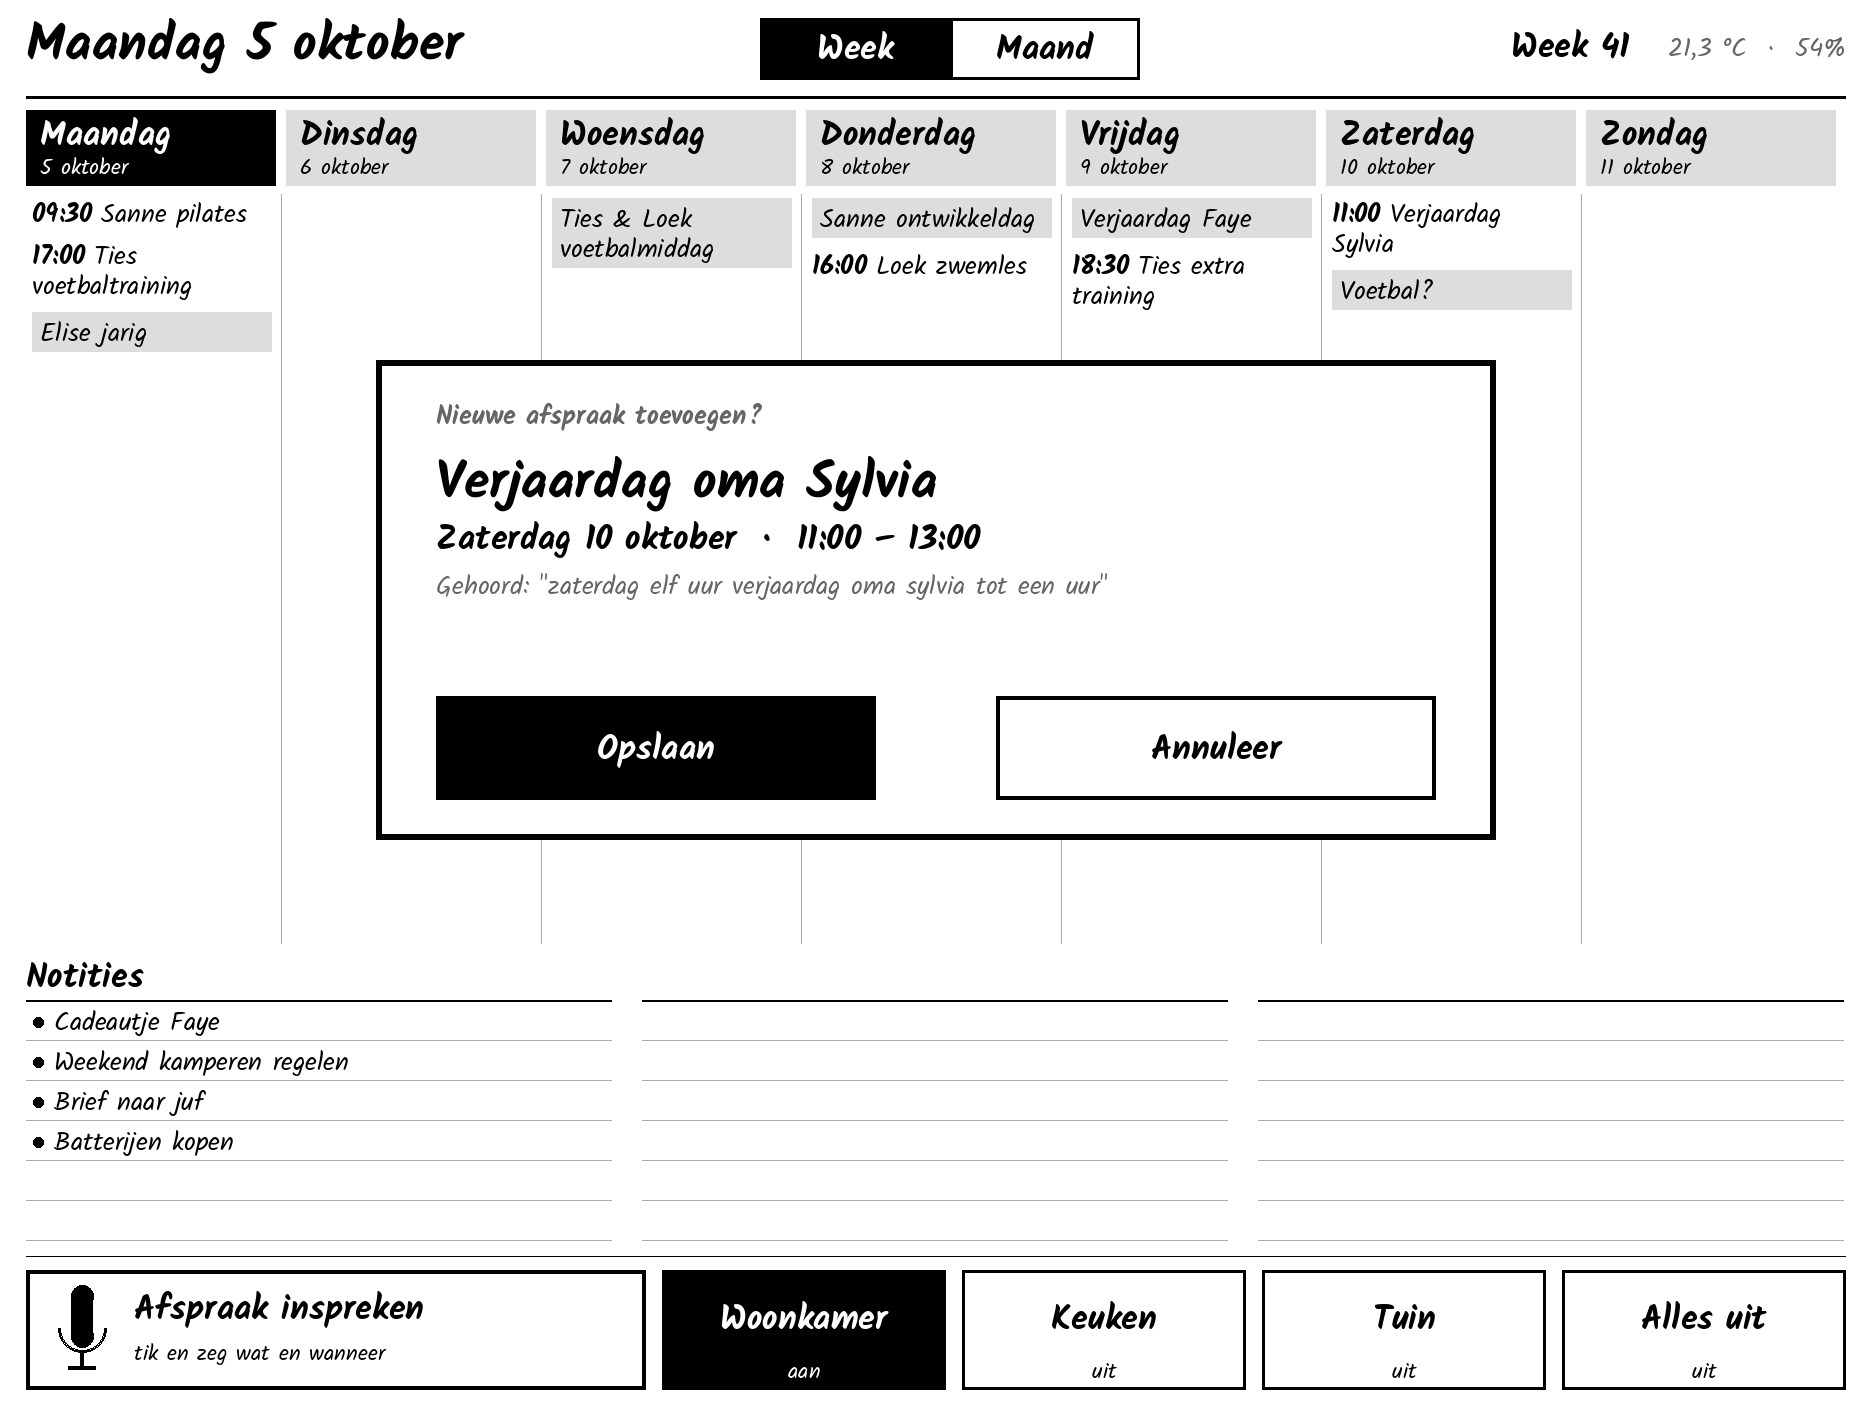
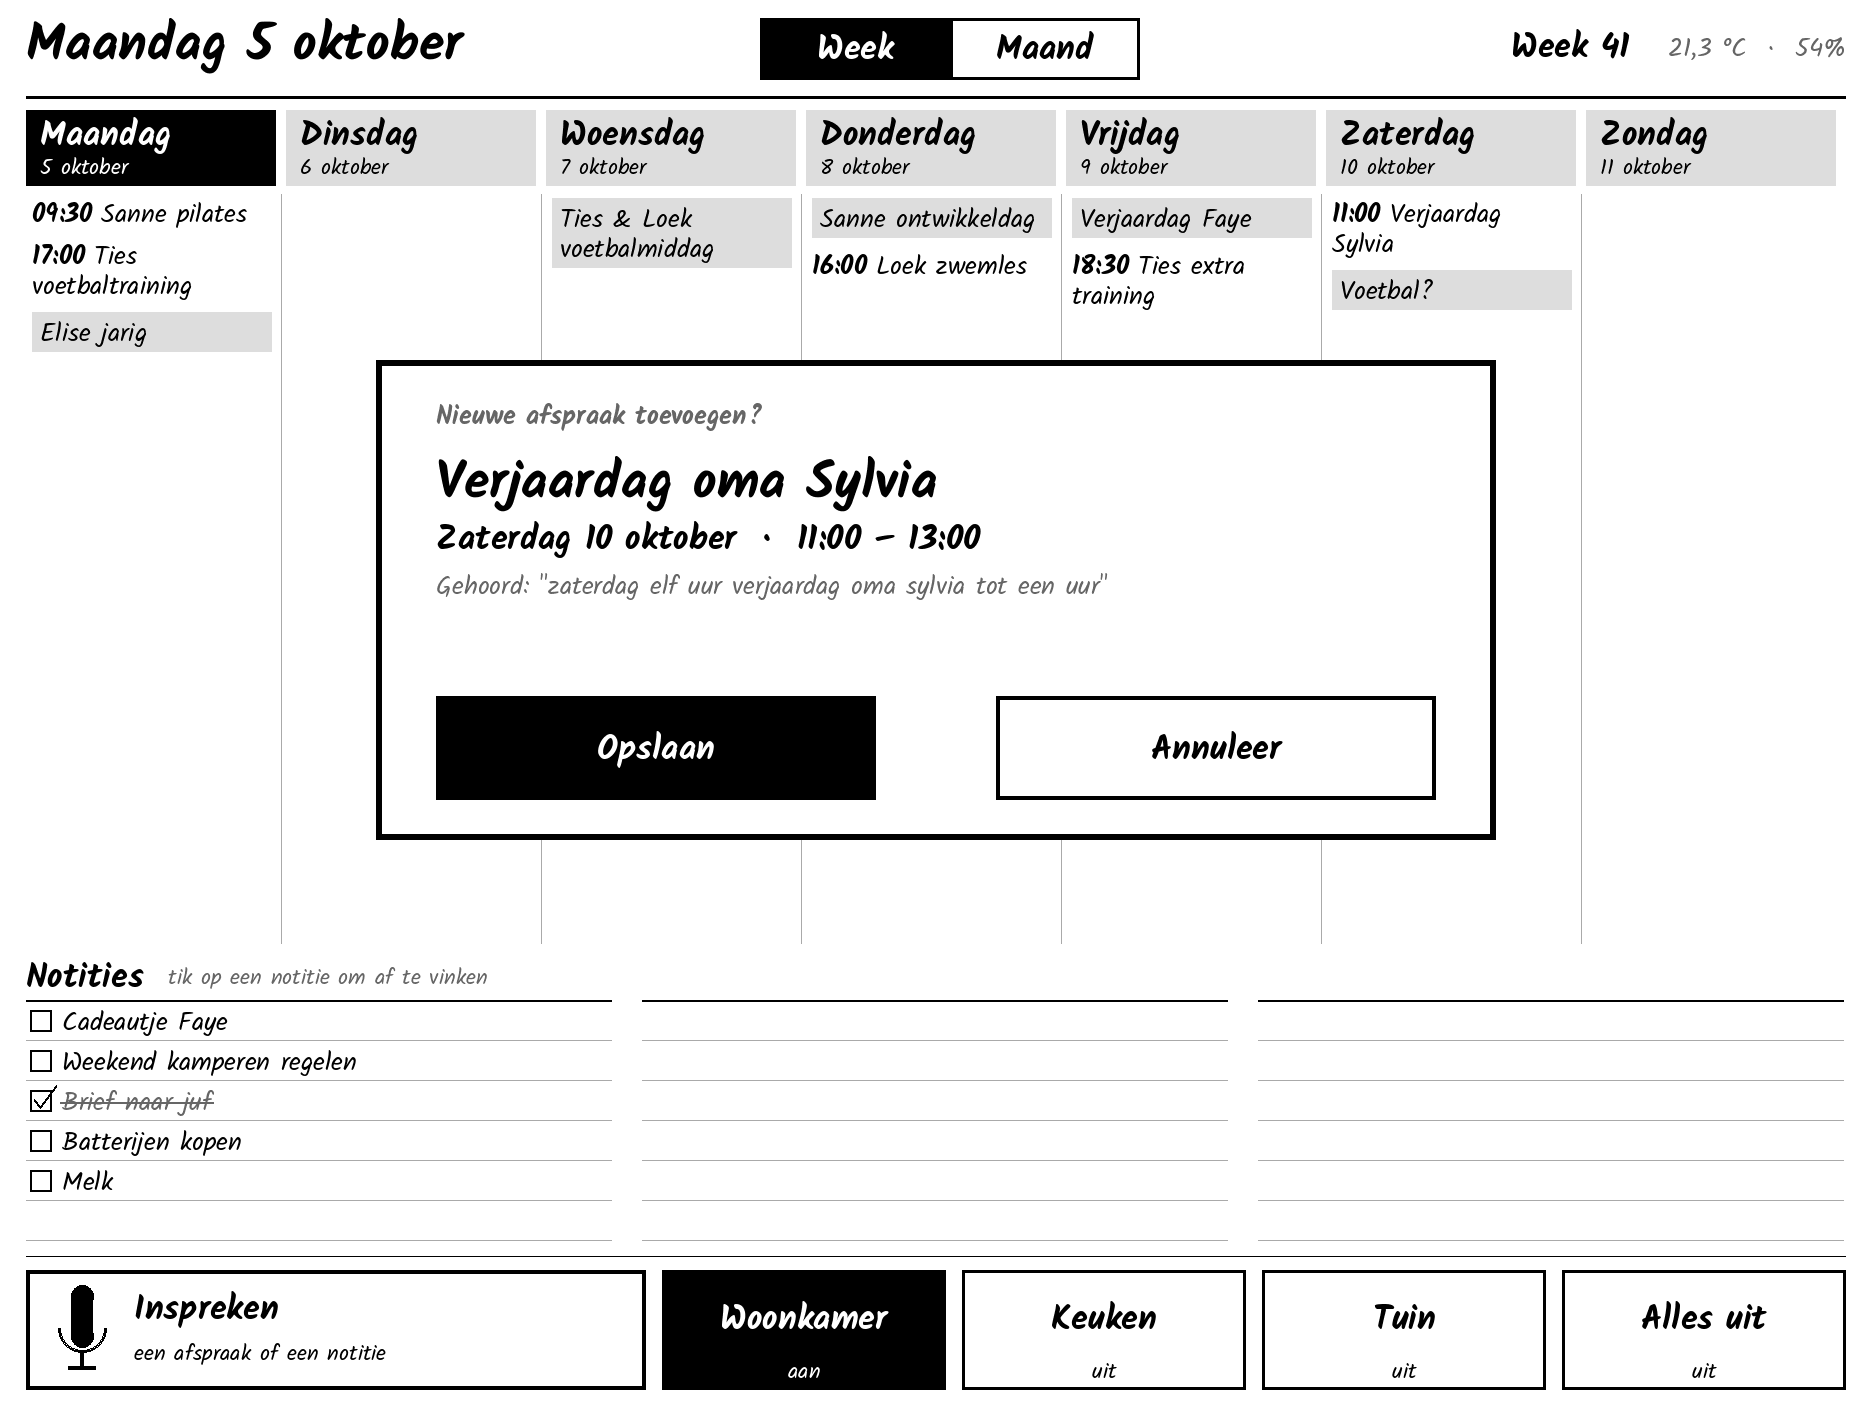
Speak notes, check off notes by tapping them
- the voice button now handles appointments and notes: the AI task picks
  afspraak/notitie/geen, the screen shows a matching confirmation and
  'Opslaan' adds a note to the first to-do list
- notes carry their list and uid; tapping one strikes it through right
  away (fast partial refresh) and marks it completed in HA

Claude-Session: https://claude.ai/code/session_016Q8iTAxGynamuoJ2KD6AXo

Changed region(s): [[0.0, 0.6738, 0.2479, 0.8575], [0.062, 0.9188, 0.2169, 0.9801]]

diff --git a/esphome/ink_kalender.h b/esphome/ink_kalender.h
@@ -78,6 +78,7 @@ constexpr int VENSTER_KNOP_Y = VENSTER_Y + VENSTER_H - 144;
 constexpr uint8_t VOL = 1;      // alles, GC16 (mooi grijs, knippert)
 constexpr uint8_t BALK = 2;     // alleen knoppenbalk, DU (snel)
 constexpr uint8_t VENSTER = 4;  // alleen pop-upvenster, DU (snel)
+constexpr uint8_t NOTITIES = 8; // alleen notitievakken, DU (snel)
 
 const Color ZWART(0, 0, 0);
 const Color WIT(255, 255, 255);
@@ -207,6 +208,34 @@ inline std::vector<std::string> lees_regels(const std::string &tekst) {
   return uit;
 }
 
+struct Notitie {
+  std::string lijst;  // todo-entiteit, bijv. "todo.notities"
+  std::string uid;    // id van het item in die lijst
+  std::string tekst;
+  bool afgevinkt{false};
+};
+
+// Regels "todo.lijst|uid|tekst". Een regel zonder '|' is alleen tekst
+// (dan kan hij niet afgevinkt worden).
+inline std::vector<Notitie> lees_notities(const std::string &tekst) {
+  std::vector<Notitie> uit;
+  for (const auto &regel : lees_regels(tekst)) {
+    Notitie n;
+    const size_t a = regel.find('|');
+    const size_t b = a == std::string::npos ? a : regel.find('|', a + 1);
+    if (b == std::string::npos) {
+      n.tekst = regel;
+    } else {
+      n.lijst = regel.substr(0, a);
+      n.uid = regel.substr(a + 1, b - a - 1);
+      n.tekst = regel.substr(b + 1);
+    }
+    if (!n.tekst.empty())
+      uit.push_back(n);
+  }
+  return uit;
+}
+
 // ------------------------------------------------------------------ staat ---
 
 enum Status : uint8_t { RUST, LUISTEREN, VERWERKEN, VOORSTEL, MELDING };
@@ -220,12 +249,14 @@ enum Zone : int {
   OK = 12,
   TAB_WEEK = 20,
   TAB_MAAND = 21,
+  NOTITIE0 = 100,  // NOTITIE0 + i = notitie i
 };
 
 enum Scherm : uint8_t { SCHERM_WEEK, SCHERM_MAAND };
 
 struct Voorstel {
   std::string titel, datum, begin, eind, gehoord;
+  std::string soort;  // "afspraak" of "notitie"
 };
 
 struct HaKnop {
@@ -240,7 +271,7 @@ struct Staat {
   bool verbonden{true};
   std::string ruw_afspraken, ruw_notities;
   std::vector<Afspraak> afspraken;
-  std::vector<std::string> notities;
+  std::vector<Notitie> notities;
   Status status{RUST};
   Scherm scherm{SCHERM_WEEK};
   Voorstel voorstel;
@@ -560,36 +591,54 @@ inline void teken_maand(Display &it, const Staat &s, const Fonts &f) {
   }
 }
 
+constexpr int NOTITIE_REGEL = 40;
+constexpr int NOTITIE_KOLOMMEN = 3;
+constexpr int NOTITIE_TUSSEN = 30;
+constexpr int NOTITIE_TOP = NOTITIE_Y + 42;
+constexpr int NOTITIE_KOL_B = (BREED - (NOTITIE_KOLOMMEN - 1) * NOTITIE_TUSSEN) / NOTITIE_KOLOMMEN;
+constexpr int NOTITIE_PER_KOLOM = (NOTITIE_EIND - NOTITIE_TOP) / NOTITIE_REGEL;
+constexpr int NOTITIE_MAX = NOTITIE_PER_KOLOM * NOTITIE_KOLOMMEN;
+
+inline int notitie_x(int i) { return MARGE + (i / NOTITIE_PER_KOLOM) * (NOTITIE_KOL_B + NOTITIE_TUSSEN); }
+inline int notitie_y(int i) { return NOTITIE_TOP + (i % NOTITIE_PER_KOLOM) * NOTITIE_REGEL; }
+
 inline void teken_notities(Display &it, const Staat &s, const Fonts &f) {
   tekst(it, MARGE, NOTITIE_Y - 8, f.kop, ZWART, WIT, TextAlign::TOP_LEFT, "Notities");
-  constexpr int REGEL = 40;
-  constexpr int KOLOMMEN = 3;
-  constexpr int TUSSEN = 30;
-  const int top = NOTITIE_Y + 42;
-  const int kol_b = (BREED - (KOLOMMEN - 1) * TUSSEN) / KOLOMMEN;
-  const int per_kolom = (NOTITIE_EIND - top) / REGEL;
-  for (int k = 0; k < KOLOMMEN; k++) {
-    const int x = MARGE + k * (kol_b + TUSSEN);
-    it.filled_rectangle(x, top, kol_b, 2, ZWART);
-    for (int r = 1; r <= per_kolom; r++)
-      it.horizontal_line(x, top + r * REGEL, kol_b, GRIJS);
+  tekst(it, MARGE + breedte(it, f.kop, "Notities") + 24, NOTITIE_Y + 2, f.klein, GRIJS_DONKER, WIT,
+        TextAlign::TOP_LEFT, "tik op een notitie om af te vinken");
+  for (int k = 0; k < NOTITIE_KOLOMMEN; k++) {
+    const int x = MARGE + k * (NOTITIE_KOL_B + NOTITIE_TUSSEN);
+    it.filled_rectangle(x, NOTITIE_TOP, NOTITIE_KOL_B, 2, ZWART);
+    for (int r = 1; r <= NOTITIE_PER_KOLOM; r++)
+      it.horizontal_line(x, NOTITIE_TOP + r * NOTITIE_REGEL, NOTITIE_KOL_B, GRIJS);
   }
   if (s.notities.empty()) {
-    tekst(it, MARGE + 8, top + 2, f.normaal, GRIJS_DONKER, WIT, TextAlign::TOP_LEFT, "Geen notities");
+    tekst(it, MARGE + 8, NOTITIE_TOP + 2, f.normaal, GRIJS_DONKER, WIT, TextAlign::TOP_LEFT, "Geen notities");
     return;
   }
-  const int max = per_kolom * KOLOMMEN;
-  for (int i = 0; i < static_cast<int>(s.notities.size()) && i < max; i++) {
-    const int x = MARGE + (i / per_kolom) * (kol_b + TUSSEN);
-    const int y = top + (i % per_kolom) * REGEL;
-    std::string t = s.notities[i];
-    if (i == max - 1 && static_cast<int>(s.notities.size()) > max) {
+  const int aantal = static_cast<int>(s.notities.size());
+  for (int i = 0; i < aantal && i < NOTITIE_MAX; i++) {
+    const int x = notitie_x(i);
+    const int y = notitie_y(i);
+    if (i == NOTITIE_MAX - 1 && aantal > NOTITIE_MAX) {
       char buf[24];
-      std::snprintf(buf, sizeof(buf), "+%d meer", static_cast<int>(s.notities.size()) - i);
-      t = buf;
+      std::snprintf(buf, sizeof(buf), "+%d meer", aantal - i);
+      tekst(it, x + 36, y + 2, f.normaal, GRIJS_DONKER, WIT, TextAlign::TOP_LEFT, buf);
+      break;
     }
-    it.filled_circle(x + 12, y + 22, 5, ZWART);
-    tekst(it, x + 28, y + 2, f.normaal, ZWART, WIT, TextAlign::TOP_LEFT, afkappen(it, f.normaal, t, kol_b - 36));
+    const Notitie &n = s.notities[i];
+    // Vakje om af te vinken
+    kader(it, x + 4, y + 10, 22, 22, 2, n.uid.empty() ? GRIJS : ZWART);
+    if (n.afgevinkt) {
+      for (int d = -1; d <= 1; d++) {
+        it.line(x + 8, y + 20 + d, x + 14, y + 27 + d, ZWART);
+        it.line(x + 14, y + 27 + d, x + 30, y + 6 + d, ZWART);
+      }
+    }
+    const std::string t = afkappen(it, f.normaal, n.tekst, NOTITIE_KOL_B - 44);
+    tekst(it, x + 36, y + 2, f.normaal, n.afgevinkt ? GRIJS_DONKER : ZWART, WIT, TextAlign::TOP_LEFT, t);
+    if (n.afgevinkt)
+      it.filled_rectangle(x + 34, y + 22, breedte(it, f.normaal, t) + 4, 2, GRIJS_DONKER);
   }
 }
 
@@ -611,8 +660,8 @@ inline void teken_balk(Display &it, const Staat &s, const Fonts &f) {
   it.horizontal_line(MARGE, BALK_Y, BREED, ZWART);
 
   // Spreekknop
-  std::string label = "Afspraak inspreken";
-  std::string hint = "tik en zeg wat en wanneer";
+  std::string label = "Inspreken";
+  std::string hint = "een afspraak of een notitie";
   const bool actief = s.status == LUISTEREN || s.status == VERWERKEN;
   if (s.status == LUISTEREN) {
     label = "Ik luister…";
@@ -679,20 +728,26 @@ inline void teken_venster(Display &it, const Staat &s, const Fonts &f) {
   }
 
   const Voorstel &v = s.voorstel;
-  tekst(it, x, y, f.vet, GRIJS_DONKER, WIT, TextAlign::TOP_LEFT, "Nieuwe afspraak toevoegen?");
+  const bool notitie = v.soort == "notitie";
+  tekst(it, x, y, f.vet, GRIJS_DONKER, WIT, TextAlign::TOP_LEFT,
+        notitie ? "Notitie toevoegen?" : "Nieuwe afspraak toevoegen?");
   y += 46;
   for (const auto &r : omloop(it, f.groot, v.titel, w, w, 2)) {
     tekst(it, x, y, f.groot, ZWART, WIT, TextAlign::TOP_LEFT, r);
     y += 66;
   }
   y += 4;
-  Datum d;
-  std::string wanneer = lees_datum(v.datum, d) ? datum_lang(d) : v.datum;
-  if (v.begin.empty())
-    wanneer += "  ·  hele dag";
-  else
-    wanneer += "  ·  " + v.begin + (v.eind.empty() ? "" : " – " + v.eind);
-  tekst(it, x, y, f.kop, ZWART, WIT, TextAlign::TOP_LEFT, afkappen(it, f.kop, wanneer, w));
+  if (!notitie) {
+    Datum d;
+    std::string wanneer = lees_datum(v.datum, d) ? datum_lang(d) : v.datum;
+    if (v.begin.empty())
+      wanneer += "  ·  hele dag";
+    else
+      wanneer += "  ·  " + v.begin + (v.eind.empty() ? "" : " – " + v.eind);
+    tekst(it, x, y, f.kop, ZWART, WIT, TextAlign::TOP_LEFT, afkappen(it, f.kop, wanneer, w));
+  } else {
+    tekst(it, x, y, f.kop, ZWART, WIT, TextAlign::TOP_LEFT, "op de notitielijst");
+  }
   y += 54;
   if (!v.gehoord.empty())
     tekst(it, x, y, f.normaal, GRIJS_DONKER, WIT, TextAlign::TOP_LEFT,
@@ -724,6 +779,13 @@ inline void teken(Display &it, const Staat &s, const Fonts &f, uint8_t mask) {
   }
   if (mask & BALK)
     teken_balk(it, s, f);
+  if ((mask & NOTITIES) && s.scherm == SCHERM_WEEK) {
+    it.filled_rectangle(0, NOTITIE_Y - 12, B, NOTITIE_EIND - NOTITIE_Y + 14, WIT);
+    teken_notities(it, s, f);
+    // Een open venster mag er niet door overschreven worden.
+    if (venster_open(s))
+      teken_venster(it, s, f);
+  }
   if ((mask & VENSTER) && venster_open(s))
     teken_venster(it, s, f);
 }
@@ -743,9 +805,19 @@ inline Zone raak(const Staat &s, int x, int y) {
     if (binnen(x, y, annuleer_x(), VENSTER_KNOP_Y, VENSTER_KNOP_B, VENSTER_KNOP_H))
       return ANNULEER;
   }
-  for (int i = 0; i < 2; i++)
+  // Tabs en notities liggen onder een open venster; dan niet aanraakbaar.
+  for (int i = 0; i < 2 && !venster_open(s); i++)
     if (binnen(x, y, tab_x(i), 0, TAB_B, KOP_H))
       return static_cast<Zone>(TAB_WEEK + i);
+  if (s.scherm == SCHERM_WEEK && !venster_open(s)) {
+    const int aantal = static_cast<int>(s.notities.size());
+    for (int i = 0; i < aantal && i < NOTITIE_MAX; i++) {
+      if (i == NOTITIE_MAX - 1 && aantal > NOTITIE_MAX)
+        break;  // "+N meer"
+      if (binnen(x, y, notitie_x(i), notitie_y(i), NOTITIE_KOL_B, NOTITIE_REGEL))
+        return s.notities[i].uid.empty() ? GEEN : static_cast<Zone>(NOTITIE0 + i);
+    }
+  }
   // Iets ruimere vlakken in de balk; vingers zijn geen stylus.
   if (binnen(x, y, MARGE - 10, KNOP_Y - 14, SPREEK_B + 18, KNOP_H + 28))
     return SPREEK;

diff --git a/tools/preview/preview.cpp b/tools/preview/preview.cpp
@@ -1,5 +1,5 @@
 // Previews van het scherm met voorbeelddata.
-// Gebruik: preview <week|maand|luisteren|voorstel|melding>  > opdrachten.jsonl
+// Gebruik: preview <week|maand|luisteren|voorstel|notitie|melding>  > opdrachten.jsonl
 #include <cstring>
 
 #include "../../esphome/ink_kalender.h"
@@ -47,7 +47,13 @@ int main(int argc, char **argv) {
   s.temperatuur = 21.3f;
   s.vochtigheid = 54.0f;
   s.afspraken = ink::lees_afspraken(VOORBEELD);
-  s.notities = ink::lees_regels("Cadeautje Faye\nWeekend kamperen regelen\nBrief naar juf\nBatterijen kopen\n");
+  s.notities = ink::lees_notities(
+      "todo.notities|a1|Cadeautje Faye\n"
+      "todo.notities|a2|Weekend kamperen regelen\n"
+      "todo.notities|a3|Brief naar juf\n"
+      "todo.boodschappen|b1|Batterijen kopen\n"
+      "todo.boodschappen|b2|Melk\n");
+  s.notities[2].afgevinkt = true;
   s.knoppen[0] = {"Woonkamer", true};
   s.knoppen[1] = {"Keuken", false};
   s.knoppen[2] = {"Tuin", false};
@@ -60,7 +66,10 @@ int main(int argc, char **argv) {
   } else if (!std::strcmp(scenario, "voorstel")) {
     s.status = ink::VOORSTEL;
     s.voorstel = {"Verjaardag oma Sylvia", "2026-10-10", "11:00", "13:00",
-                  "zaterdag elf uur verjaardag oma sylvia tot een uur"};
+                  "zaterdag elf uur verjaardag oma sylvia tot een uur", "afspraak"};
+  } else if (!std::strcmp(scenario, "notitie")) {
+    s.status = ink::VOORSTEL;
+    s.voorstel = {"Cadeautje voor Faye kopen", "", "", "", "notitie cadeautje voor faye kopen", "notitie"};
   } else if (!std::strcmp(scenario, "melding")) {
     s.status = ink::MELDING;
     s.melding = "Ik hoorde \"doe de lampen uit\", maar dat is geen afspraak.";

diff --git a/tools/preview/render.py b/tools/preview/render.py
@@ -30,7 +30,7 @@ FONT_DEFS = [  # (naam, gewicht, grootte)
     ("kop", 700, 34),
     ("groot", 700, 52),
 ]
-SCENARIOS = ["week", "maand", "luisteren", "voorstel", "melding"]
+SCENARIOS = ["week", "maand", "luisteren", "voorstel", "notitie", "melding"]
 TEKENS = list(range(32, 0x250)) + [0x2013, 0x2018, 0x2019, 0x201C, 0x201D, 0x2026]
 
 
@@ -100,6 +100,8 @@ def teken(opdrachten: list, fonts: dict) -> Image.Image:
                 d.rectangle(vak, fill=o["c"])
             else:
                 d.rectangle(vak, outline=o["c"])
+        elif o["op"] == "line":
+            d.line([o["x"], o["y"], o["x2"], o["y2"]], fill=o["c"])
         elif o["op"] == "circle":
             vak = [o["x"] - o["r"], o["y"] - o["r"], o["x"] + o["r"], o["y"] + o["r"]]
             if o["fill"]:

diff --git a/tools/preview/esphome_stub.h b/tools/preview/esphome_stub.h
@@ -67,6 +67,9 @@ class Display {
   void rectangle(int x, int y, int w, int h, Color c) {
     std::printf("{\"op\":\"rect\",\"x\":%d,\"y\":%d,\"w\":%d,\"h\":%d,\"c\":%d,\"fill\":0}\n", x, y, w, h, c.r);
   }
+  void line(int x1, int y1, int x2, int y2, Color c) {
+    std::printf("{\"op\":\"line\",\"x\":%d,\"y\":%d,\"x2\":%d,\"y2\":%d,\"c\":%d}\n", x1, y1, x2, y2, c.r);
+  }
   void horizontal_line(int x, int y, int w, Color c) { filled_rectangle(x, y, w, 1, c); }
   void vertical_line(int x, int y, int h, Color c) { filled_rectangle(x, y, 1, h, c); }
   void circle(int x, int y, int r, Color c) {

diff --git a/tools/preview/tests.cpp b/tools/preview/tests.cpp
@@ -44,6 +44,12 @@ int main() {
   auto regels = lees_regels("a\n\nb\r\n");
   assert(regels.size() == 2 && regels[1] == "b");
 
+  auto notities = lees_notities("todo.a|u1|Melk\nlos\ntodo.b|u2|Brood | kaas\ntodo.c|u3|\n");
+  assert(notities.size() == 3);
+  assert(notities[0].lijst == "todo.a" && notities[0].uid == "u1" && notities[0].tekst == "Melk");
+  assert(notities[1].uid.empty() && notities[1].tekst == "los");
+  assert(notities[2].tekst == "Brood | kaas");
+
   // UTF-8
   const std::string s = "café";
   assert(utf8_terug(s, s.size()) == 3);
